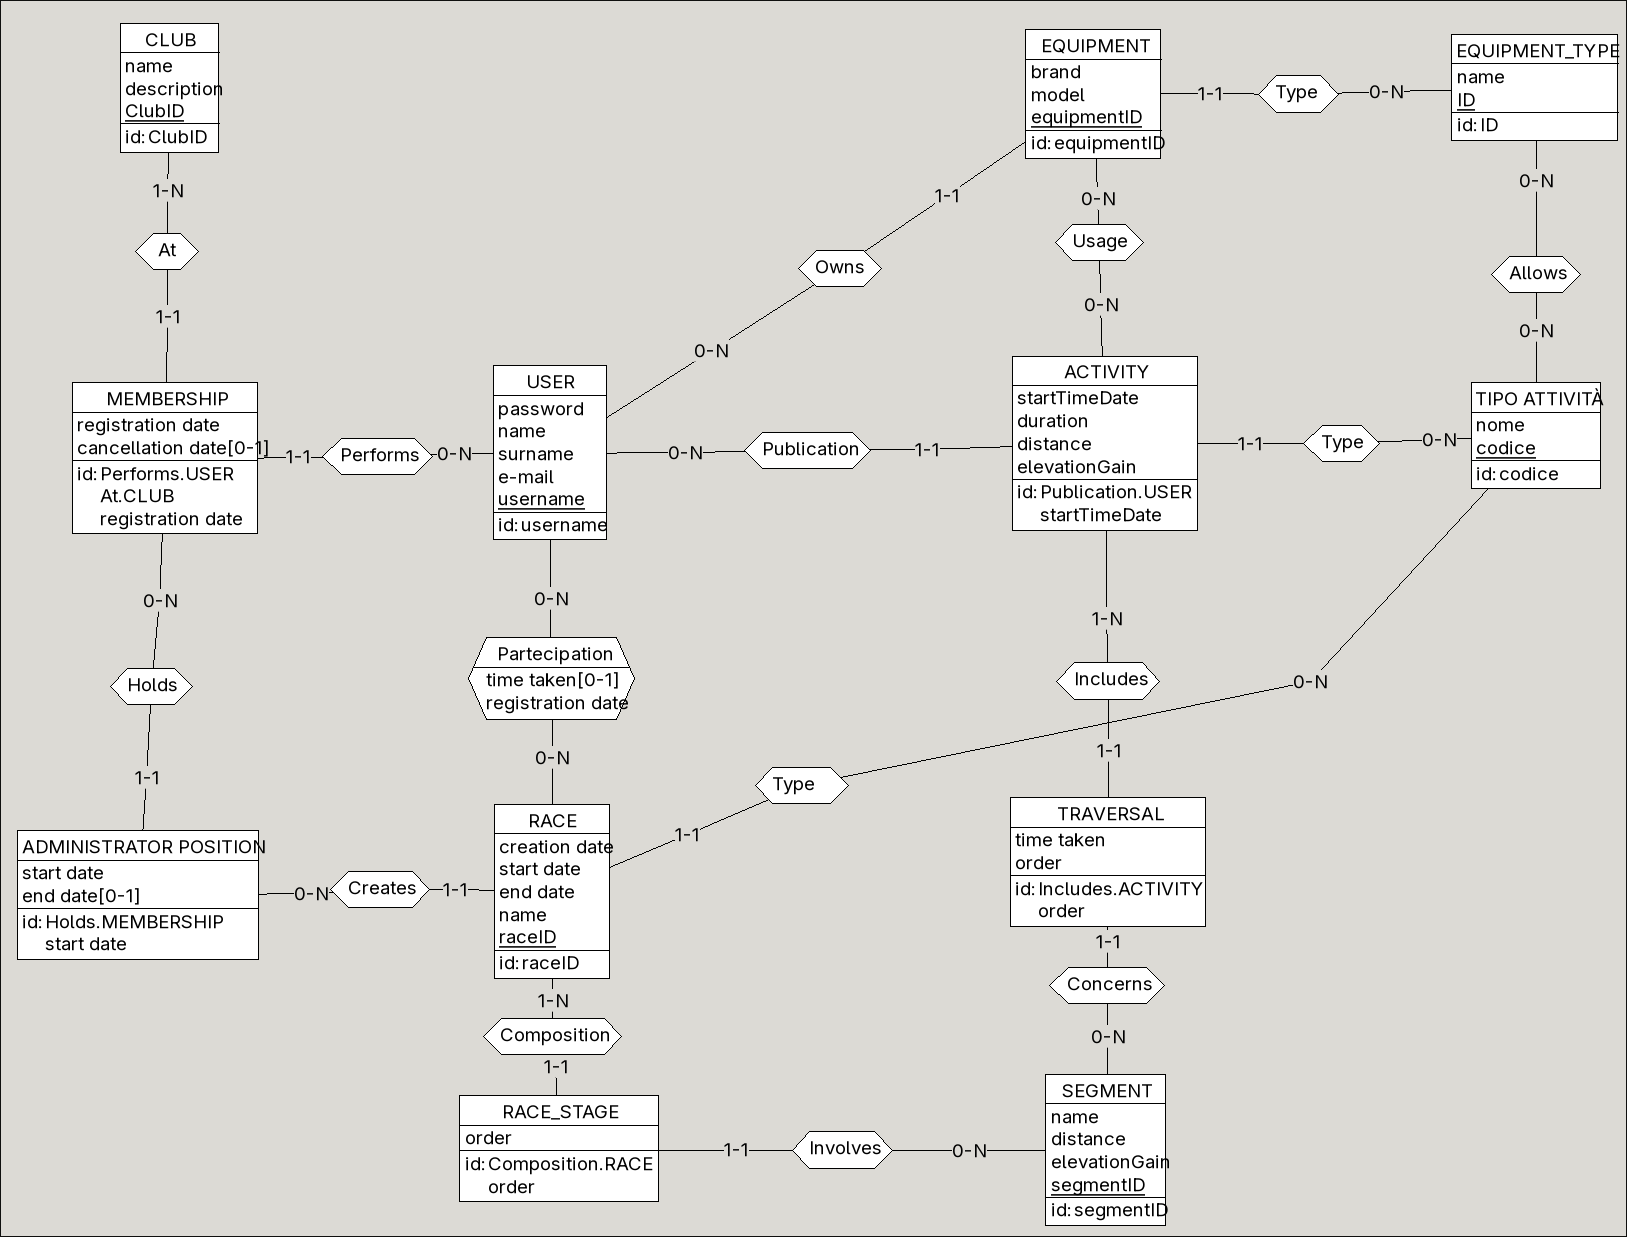
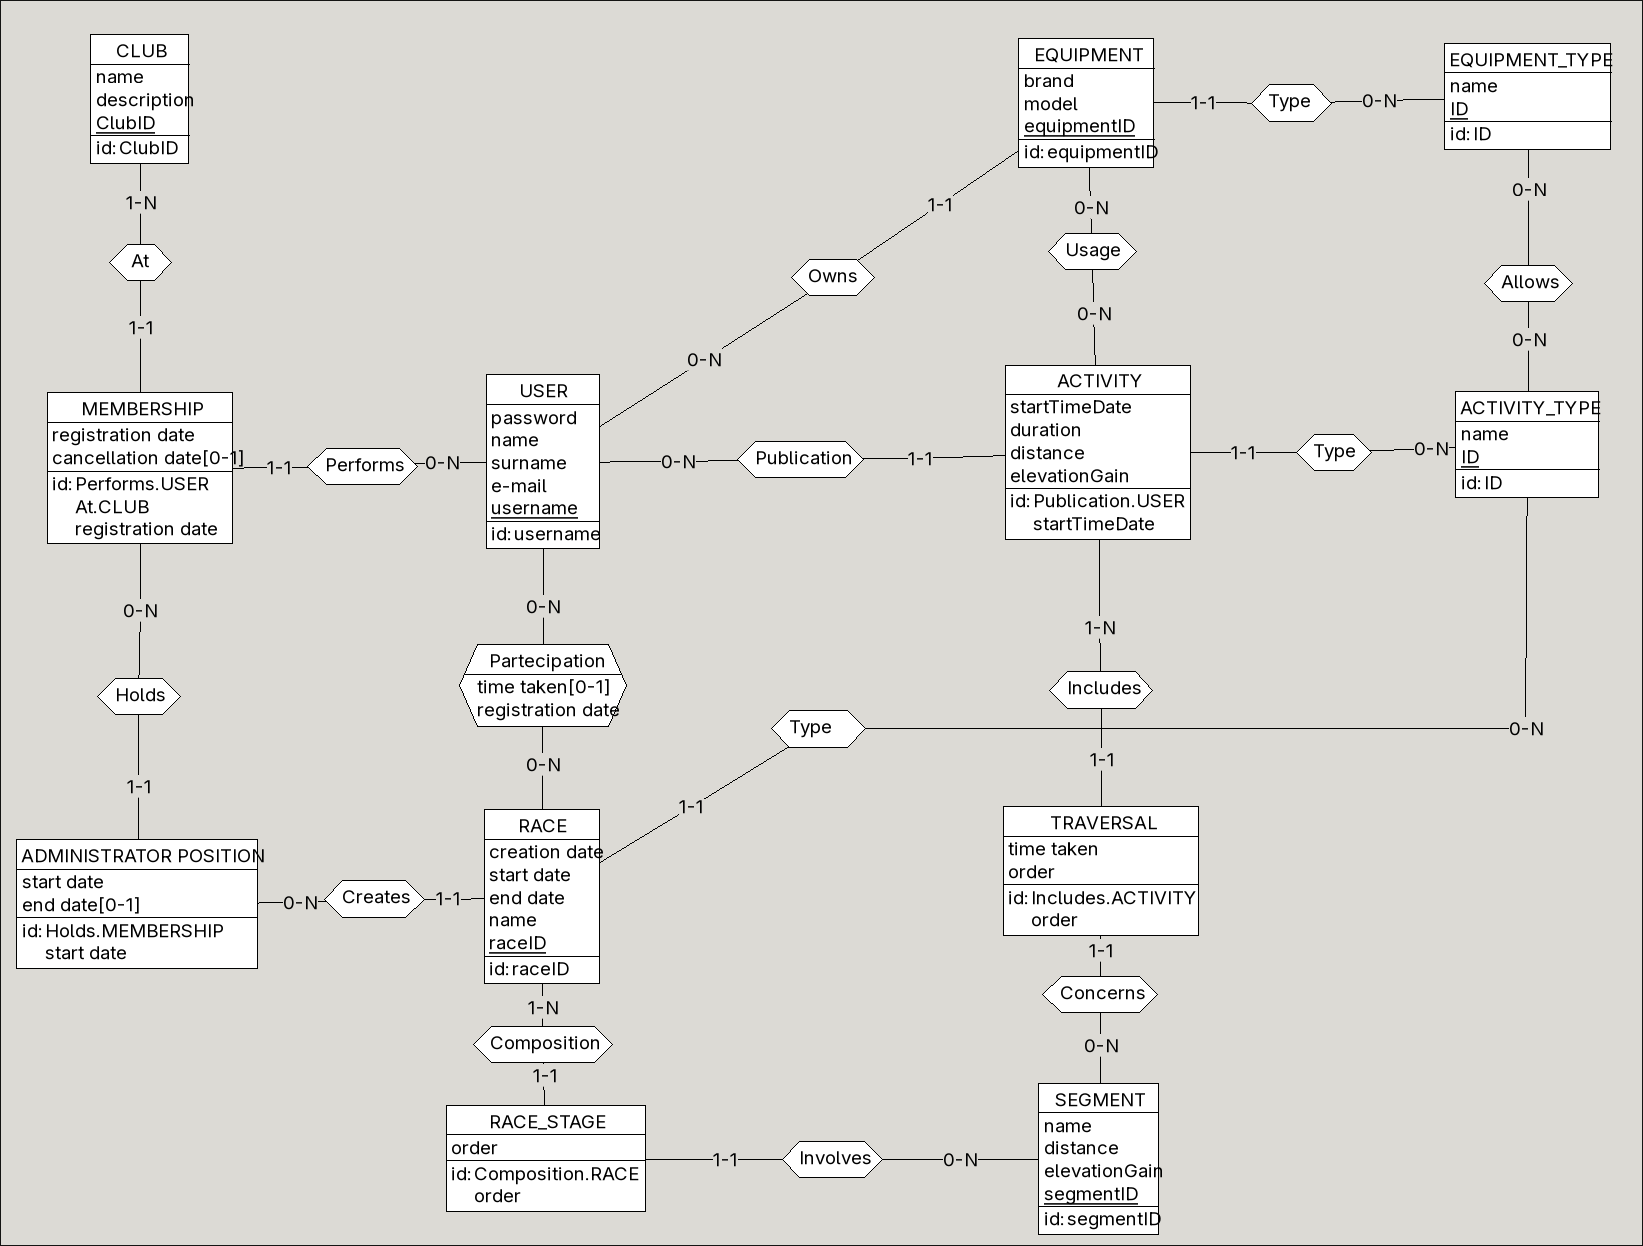
Refactor database connection settings and add mariadb docker-compose

diff --git a/app/src/main/java/db_lab/data/Iscrizione.java b/app/src/main/java/db_lab/data/Iscrizione.java
@@ -14,7 +14,7 @@ public final class Iscrizione {
     public final LocalDateTime dataDisiscrizione;
 
     public Iscrizione(String username, int idClub, String nomeClub,
-                      LocalDateTime dataIscrizione, LocalDateTime dataDisiscrizione) {
+            LocalDateTime dataIscrizione, LocalDateTime dataDisiscrizione) {
         this.username = username;
         this.idClub = idClub;
         this.nomeClub = nomeClub;
@@ -23,21 +23,21 @@ public final class Iscrizione {
     }
 
     public static final class DAO {
-        private DAO() { }
+        private DAO() {
+        }
 
         public static List<Iscrizione> list(Connection connection) {
             var result = new ArrayList<Iscrizione>();
             try (
-                var statement = DAOUtils.prepare(connection, Queries.LIST_ISCRIZIONI);
-                var rs = statement.executeQuery()
-            ) {
+                    var statement = DAOUtils.prepare(connection, Queries.LIST_ISCRIZIONI);
+                    var rs = statement.executeQuery()) {
                 while (rs.next()) {
-                    var end = rs.getTimestamp("DateDistrict");
+                    var end = rs.getTimestamp("dataDisiscrizione");
                     result.add(new Iscrizione(
                             rs.getString("username"),
                             rs.getInt("IDClub"),
-                            rs.getString("NameClub"),
-                            rs.getTimestamp("Date").toLocalDateTime(),
+                            rs.getString("nomeClub"),
+                            rs.getTimestamp("dataIscrizione").toLocalDateTime(),
                             end == null ? null : end.toLocalDateTime()));
                 }
             } catch (Exception e) {
@@ -49,7 +49,7 @@ public final class Iscrizione {
         public static boolean hasActive(Connection connection, String username, int idClub) {
             try (var statement = DAOUtils.prepare(
                     connection, Queries.CHECK_ISCRIZIONE_ATTIVA, username, idClub);
-                 var rs = statement.executeQuery()) {
+                    var rs = statement.executeQuery()) {
                 return rs.next();
             } catch (Exception e) {
                 throw new DAOException(e);
@@ -57,7 +57,7 @@ public final class Iscrizione {
         }
 
         public static void insert(Connection connection, String username, int idClub,
-                                  LocalDateTime dataIscrizione) {
+                LocalDateTime dataIscrizione) {
             try (var statement = DAOUtils.prepare(
                     connection, Queries.INSERT_ISCRIZIONE,
                     username, idClub, Timestamp.valueOf(dataIscrizione))) {
@@ -70,7 +70,7 @@ public final class Iscrizione {
         public static LocalDateTime findActiveStart(Connection connection, String username, int idClub) {
             try (var statement = DAOUtils.prepare(
                     connection, Queries.FIND_ISCRIZIONE_ATTIVA, username, idClub);
-                 var rs = statement.executeQuery()) {
+                    var rs = statement.executeQuery()) {
                 if (!rs.next()) {
                     return null;
                 }
@@ -81,7 +81,7 @@ public final class Iscrizione {
         }
 
         public static void close(Connection connection, String username, int idClub,
-                                 LocalDateTime dataIscrizione, LocalDateTime dataDisiscrizione) {
+                LocalDateTime dataIscrizione, LocalDateTime dataDisiscrizione) {
             try (var statement = DAOUtils.prepare(
                     connection, Queries.CLOSE_ISCRIZIONE,
                     Timestamp.valueOf(dataDisiscrizione), username, idClub,

diff --git a/app/src/main/java/db_lab/App.java b/app/src/main/java/db_lab/App.java
@@ -8,38 +8,43 @@ import javax.swing.JOptionPane;
 import javax.swing.JPasswordField;
 
 public final class App {
-    private static final String DATABASE = "strava_db";
-    private static final String DEFAULT_USER = "progetto";
+    private static final String DATABASE = "workout_tracking_db";
+    // private static final String DEFAULT_USER = "root";
 
     public static void main(String[] args) {
-        String user = JOptionPane.showInputDialog(
-                null,
-                "Utente MariaDB/MySQL:",
-                DEFAULT_USER);
+        // String user = JOptionPane.showInputDialog(
+        // null,
+        // "Utente MariaDB/MySQL:",
+        // DEFAULT_USER);
+        //
+        // if (user == null || user.isBlank()) {
+        // return;
+        // }
+        String user = "root";
 
-        if (user == null || user.isBlank()) {
-            return;
-        }
+        // var passwordField = new JPasswordField();
+        // int result = JOptionPane.showConfirmDialog(
+        // null,
+        // passwordField,
+        // "Password MariaDB/MySQL (utente " + user + ")",
+        // JOptionPane.OK_CANCEL_OPTION,
+        // JOptionPane.PLAIN_MESSAGE);
+        //
+        // if (result != JOptionPane.OK_OPTION) {
+        // return;
+        // }
 
-        var passwordField = new JPasswordField();
-        int result = JOptionPane.showConfirmDialog(
-                null,
-                passwordField,
-                "Password MariaDB/MySQL (utente " + user + ")",
-                JOptionPane.OK_CANCEL_OPTION,
-                JOptionPane.PLAIN_MESSAGE);
-
-        if (result != JOptionPane.OK_OPTION) {
-            return;
-        }
-
-        String password = new String(passwordField.getPassword());
+        // String password = new String(passwordField.getPassword());
+        String password = "root";
 
         try {
             var connection = DAOUtils.localMySQLConnection(DATABASE, user, password);
             var model = Model.fromConnection(connection);
             var view = new View(() -> {
-                try { connection.close(); } catch (Exception ignored) { }
+                try {
+                    connection.close();
+                } catch (Exception ignored) {
+                }
             });
             var controller = new Controller(model, view);
             view.setController(controller);
@@ -48,8 +53,8 @@ public final class App {
             JOptionPane.showMessageDialog(
                     null,
                     "Impossibile connettersi al database '" + DATABASE + "'.\n\n" +
-                    "Controlla che MariaDB sia avviato e che gli script SQL richiesti siano stati eseguiti " +
-                    "e che la password sia corretta.\n\nDettaglio: " + e.getMessage(),
+                            "Controlla che MariaDB sia avviato e che gli script SQL richiesti siano stati eseguiti " +
+                            "e che la password sia corretta.\n\nDettaglio: " + e.getMessage(),
                     "Errore di connessione",
                     JOptionPane.ERROR_MESSAGE);
         }

diff --git a/app/src/main/java/db_lab/data/TipoAttivita.java b/app/src/main/java/db_lab/data/TipoAttivita.java
@@ -12,7 +12,7 @@ public final class TipoAttivita {
     public final int durataTotale;
 
     public TipoAttivita(int codice, String nome, int numeroAttivita,
-                        double distanzaTotale, int durataTotale) {
+            double distanzaTotale, int durataTotale) {
         this.codice = codice;
         this.nome = nome;
         this.numeroAttivita = numeroAttivita;
@@ -26,22 +26,21 @@ public final class TipoAttivita {
     }
 
     public static final class DAO {
-        private DAO() { }
+        private DAO() {
+        }
 
         public static List<TipoAttivita> list(Connection connection) {
             var result = new ArrayList<TipoAttivita>();
             try (
-                var statement = DAOUtils.prepare(connection, Queries.LIST_TIPI_ATTIVITA);
-                var rs = statement.executeQuery()
-            ) {
+                    var statement = DAOUtils.prepare(connection, Queries.LIST_TIPI_ATTIVITA);
+                    var rs = statement.executeQuery()) {
                 while (rs.next()) {
                     result.add(new TipoAttivita(
-                        rs.getInt("codeType"),
-                        rs.getString("Name"),
-                        rs.getInt("Number of products"),
-                        rs.getDouble("distance"),
-                        rs.getInt("durability")
-                    ));
+                            rs.getInt("codiceTipoAttivita"),
+                            rs.getString("nome"),
+                            rs.getInt("numeroAttivita"),
+                            rs.getDouble("distanzaTotale"),
+                            rs.getInt("durataTotale")));
                 }
             } catch (Exception e) {
                 throw new DAOException(e);
@@ -50,7 +49,7 @@ public final class TipoAttivita {
         }
 
         public static void updateStatistics(Connection connection, int codiceTipoAttivita,
-                                            double distanza, int durata) {
+                double distanza, int durata) {
             try (var statement = DAOUtils.prepare(
                     connection,
                     Queries.UPDATE_STATISTICHE_TIPO_ATTIVITA,
@@ -58,7 +57,7 @@ public final class TipoAttivita {
                 int updated = statement.executeUpdate();
                 if (updated != 1) {
                     throw new DAOException(new IllegalStateException(
-                            "Unexisting type of activity:" + codiceTipoAttivita));
+                            "Tipo attività inesistente: " + codiceTipoAttivita));
                 }
             } catch (DAOException e) {
                 throw e;

diff --git a/app/src/main/java/db_lab/data/DAOUtils.java b/app/src/main/java/db_lab/data/DAOUtils.java
@@ -6,11 +6,12 @@ import java.sql.PreparedStatement;
 import java.sql.SQLException;
 
 public final class DAOUtils {
-    private DAOUtils() { }
+    private DAOUtils() {
+    }
 
     public static Connection localMySQLConnection(String database, String username, String password) {
         try {
-            String url = "jdbc:mysql://localhost:3306/" + database;
+            String url = "jdbc:mysql://localhost:3307/" + database;
             return DriverManager.getConnection(url, username, password);
         } catch (Exception e) {
             throw new DAOException(e);

diff --git a/README.md b/README.md
@@ -1,63 +1,75 @@
 # Workout Tracking Database
 
-A database design and development project for a fitness tracking application inspired by platforms such as Strava. The system allows users to record, upload, and manage their workouts and training activities.
+A relational database design and Java desktop application inspired by fitness tracking platforms such as Strava, allowing athletes and clubs to record, manage, and analyze workouts, GPS segments, equipment usage, and competitions.
 
-## Project Overview
+Developed as the final project for the **Databases** (*Basi di Dati*) course in the B.Sc. in Computer Science and Engineering at the **University of Bologna** (Cesena Campus)[cite: 2, 4].
 
-The project was developed as part of the Database course at the University of Bologna. It focuses on the design and implementation of a relational database for managing sports activities and user-generated training data.
+---
 
-The repository includes the database schema, SQL scripts for data population, a technical report, and a Java application to interact with the database.
+## Project Overview & Database Design
 
-## Technologies
+The project covers the complete database engineering lifecycle—from requirements analysis and conceptual modeling to logical restructuring, normalization, and physical implementation[cite: 2, 4]:
 
-- **Database:** MariaDB / MySQL
-- **Programming language:** Java
-- **Build tool:** Gradle
-- **Database language:** SQL
+* **Conceptual & Logical Modeling:** Designed an Entity-Relationship (E-R) schema covering **14 core domain entities** (Users, Activities/Workouts, GPS Segments, Segment Crossings, Gear/Equipment, Clubs, Competitions/Races, Registrations, Participations, and Performance Reports)[cite: 1].
+* **Data Integrity & Optimization:** Enforced primary/foreign key constraints, domain checks, and normalized relational tables to eliminate data redundancy while supporting efficient analytical queries[cite: 4].
+* **Analytical & Operational Queries:** Implemented SQL queries to track athlete progress, segment leaderboards, equipment wear, club memberships, and race rankings[cite: 1, 4].
 
-## Application Screenshot
+---
 
-![Screen for creating a new race](docs/images/app-screenshot.png)
+## Software Architecture
+
+The companion Java application is structured following the **MVC (Model-View-Controller)** architectural pattern decoupled from persistence via a dedicated **DAO (Data Access Object)** layer over **JDBC**[cite: 1]:
+
+* **Model & DAO Layer (`DBModel`, `DAOUtils`, `DAOException`, `Queries`):** Encapsulates SQL statements, connection lifecycle management, and relational-to-object mapping[cite: 1].
+* **Controller Layer:** Coordinates user interactions, input validation, and data flow between the GUI and the persistence layer[cite: 1].
+* **View Layer:** Desktop graphical user interface for browsing workouts, uploading activities, and inspecting reports[cite: 1].
+
+---
+
+## Tech Stack
+
+* **DBMS:** MariaDB / MySQL
+* **Language:** Java (JDK 17+) & SQL[cite: 2, 7]
+* **Data Access:** JDBC[cite: 1]
+* **Build Tool:** Gradle (Kotlin DSL)
+
+---
 
 ## Entity-Relationship Diagram
 
-[![Final E/R schema preview](docs/images/er-schema.png)](docs/Report.pdf)
+![Entity-Relationship Diagram](./docs/images/er-schema.png)
 
-## Repository Structure
+---
 
-- `sql/database.sql` – Database schema and table definitions.
-- `sql/popolamento.sql` – Sample data for populating the database.
-- `docs/Report.pdf` – Project documentation and database design.
-- `app/` – Java application and database interaction logic.
+## Application Preview
 
-## Setup and Usage
+![Application Screenshot](./docs/images/app-screenshot.png)
 
-### 1. Database Setup
+---
 
-Start a MariaDB/MySQL server and create the database by running:
+## Quick Start
 
-```bash
-mysql -u root -p < database.sql
-```
+### Prerequisites
+* **Java Development Kit (JDK)** 17 or higher
+* **Docker** & **Docker Compose**
 
-### 2. Populate the Database
+### Run the Application
 
-Run the population script:
+1. **Clone the repository:**
+   ```bash
+   git clone [https://github.com/jjacomo/workout-tracking-database.git](https://github.com/jjacomo/workout-tracking-database.git)
+   cd workout-tracking-database
+   ```
 
-```bash
-mysql -u root -p allenamenti_db < popolamento.sql
-```
+2. **Start and automatically initialize the database:**
+   ```bash
+   docker compose up -d
+   ```
+   *(MariaDB starts on port `3307`, creates `workout_tracking_db`, builds the schema from `sql/database.sql`, and loads sample data from `sql/populate.sql`).*
 
-### 3. Run the Application
+3. **Launch the Java application:**
+   ```bash
+   ./gradlew run
+   ```
+   *(On Windows, run `gradlew.bat run`).*
 
-From the project root directory:
-
-```bash
-./gradlew run
-```
-
-The application will prompt for the database credentials at startup.
-
-## Documentation
-
-For a detailed explanation of the database design, requirements, and implementation, see [Report.pdf](docs/Report.pdf).
